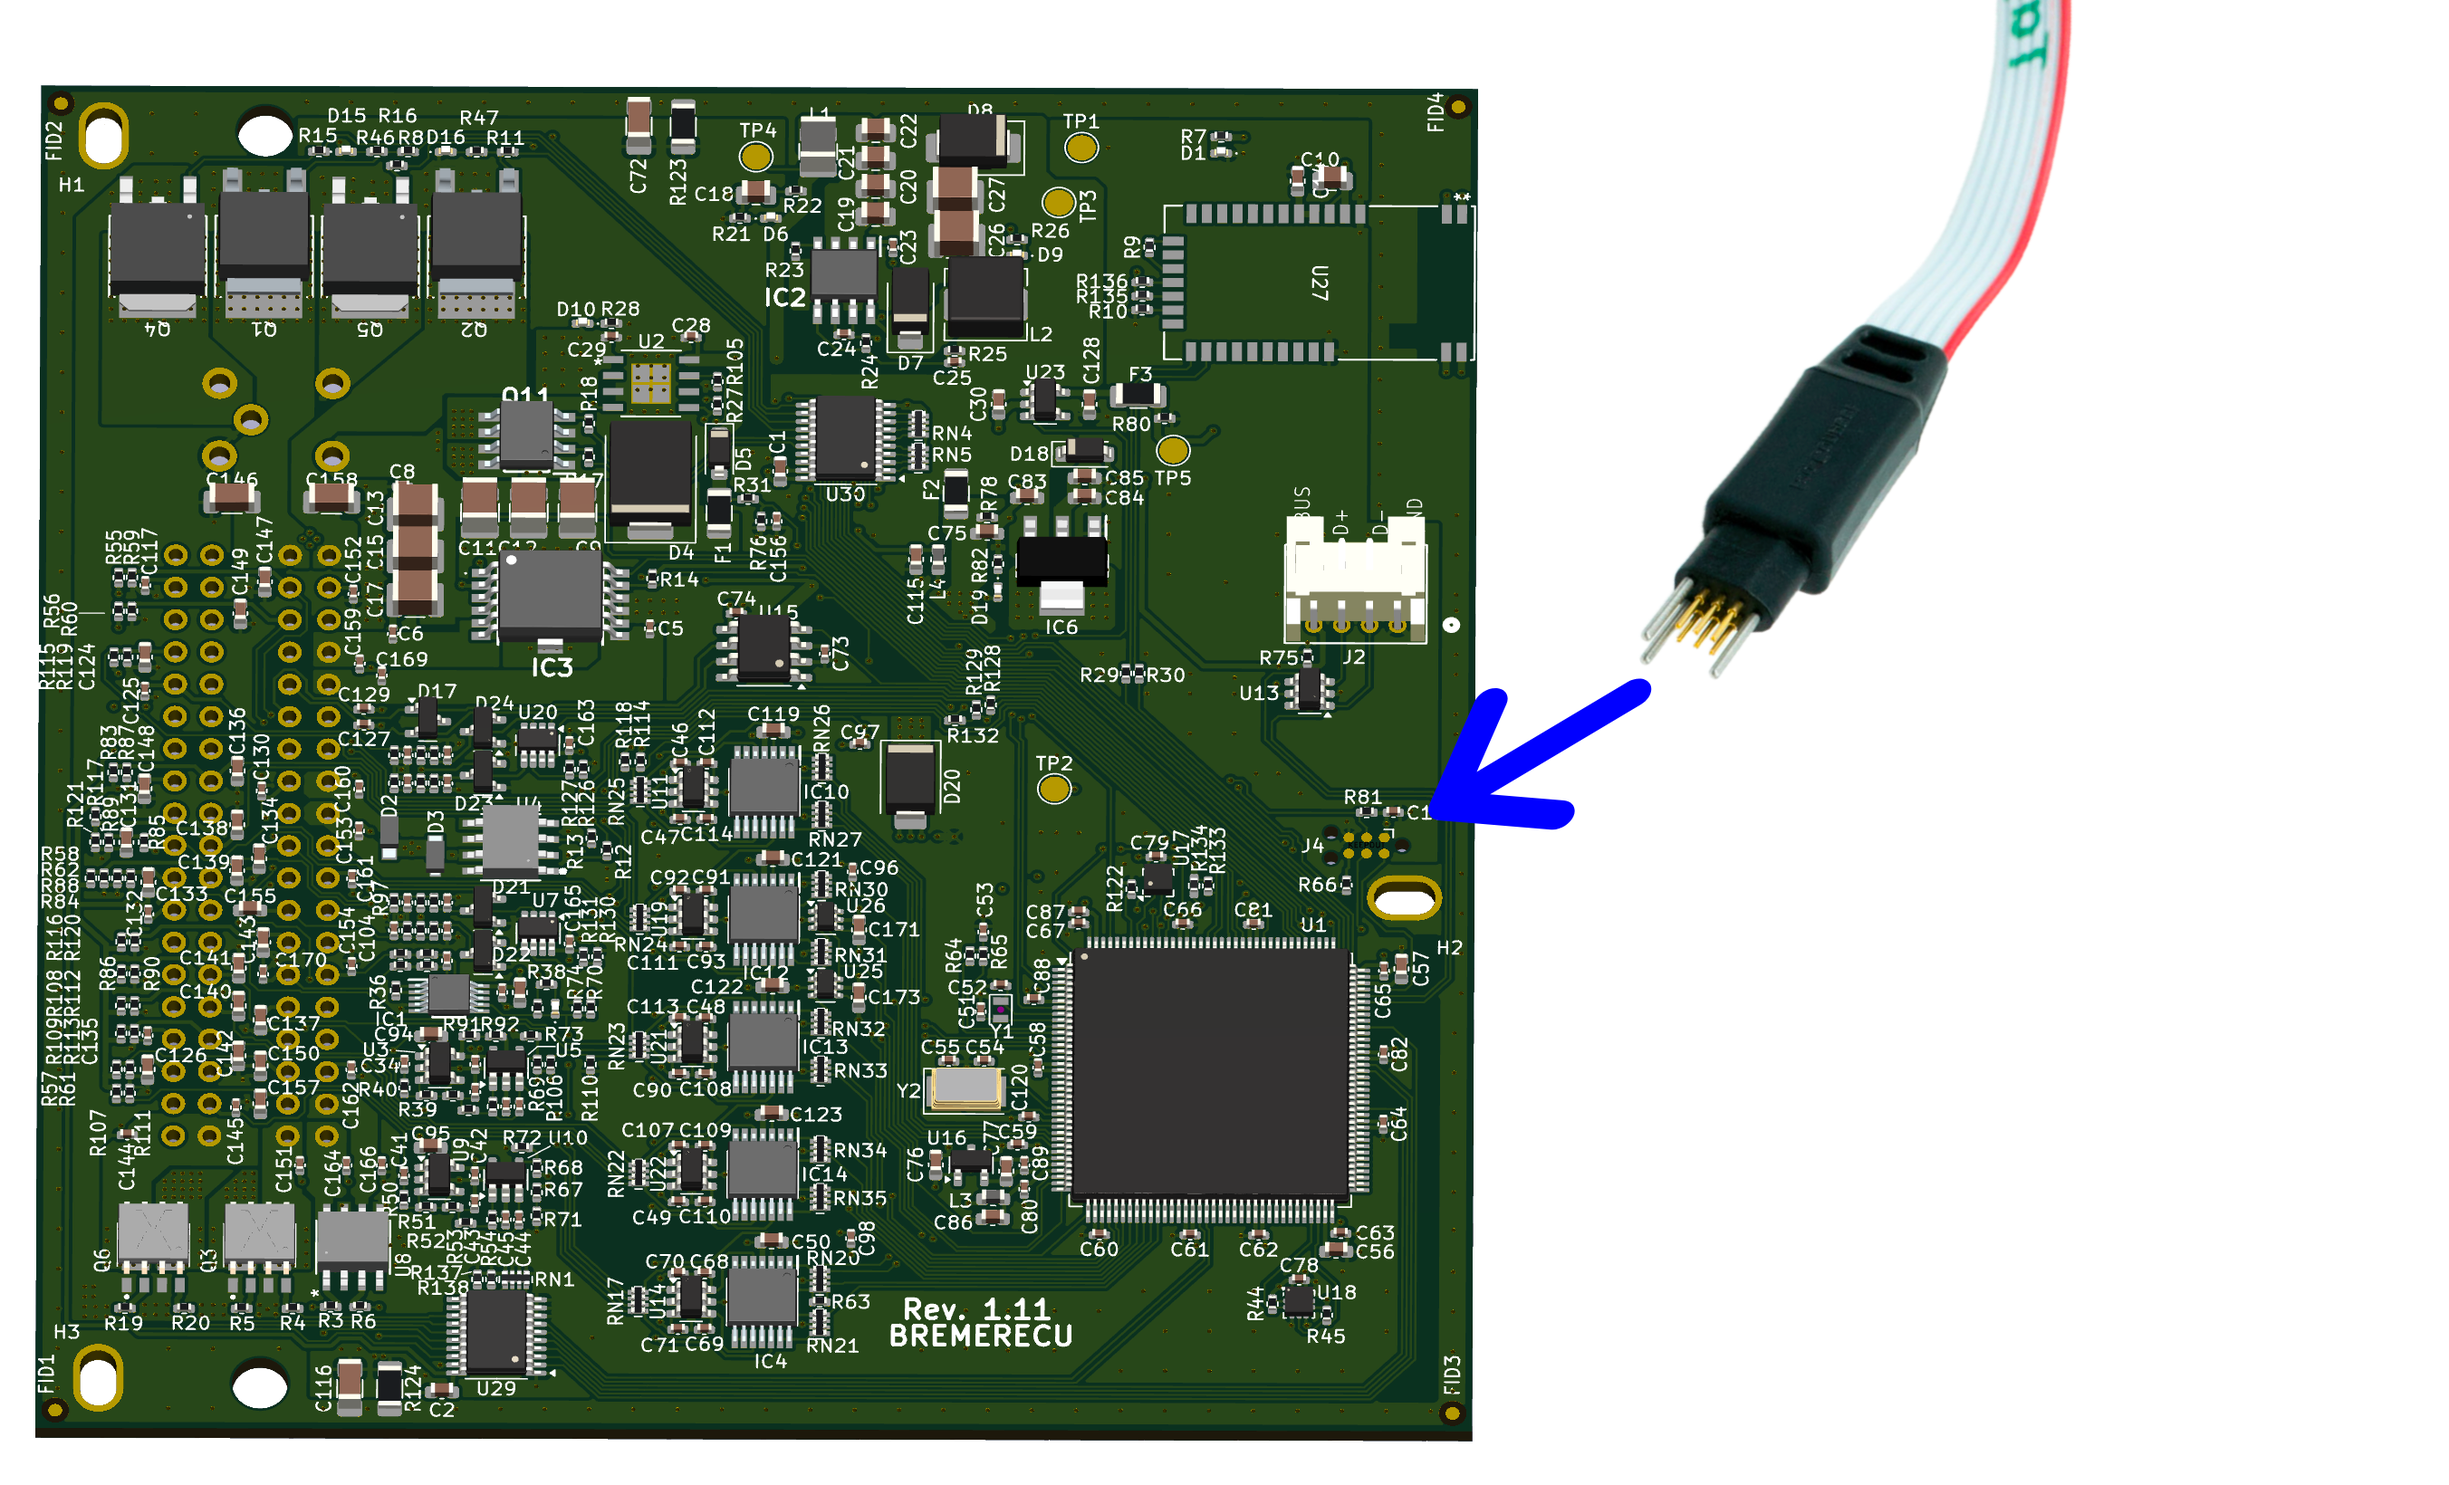
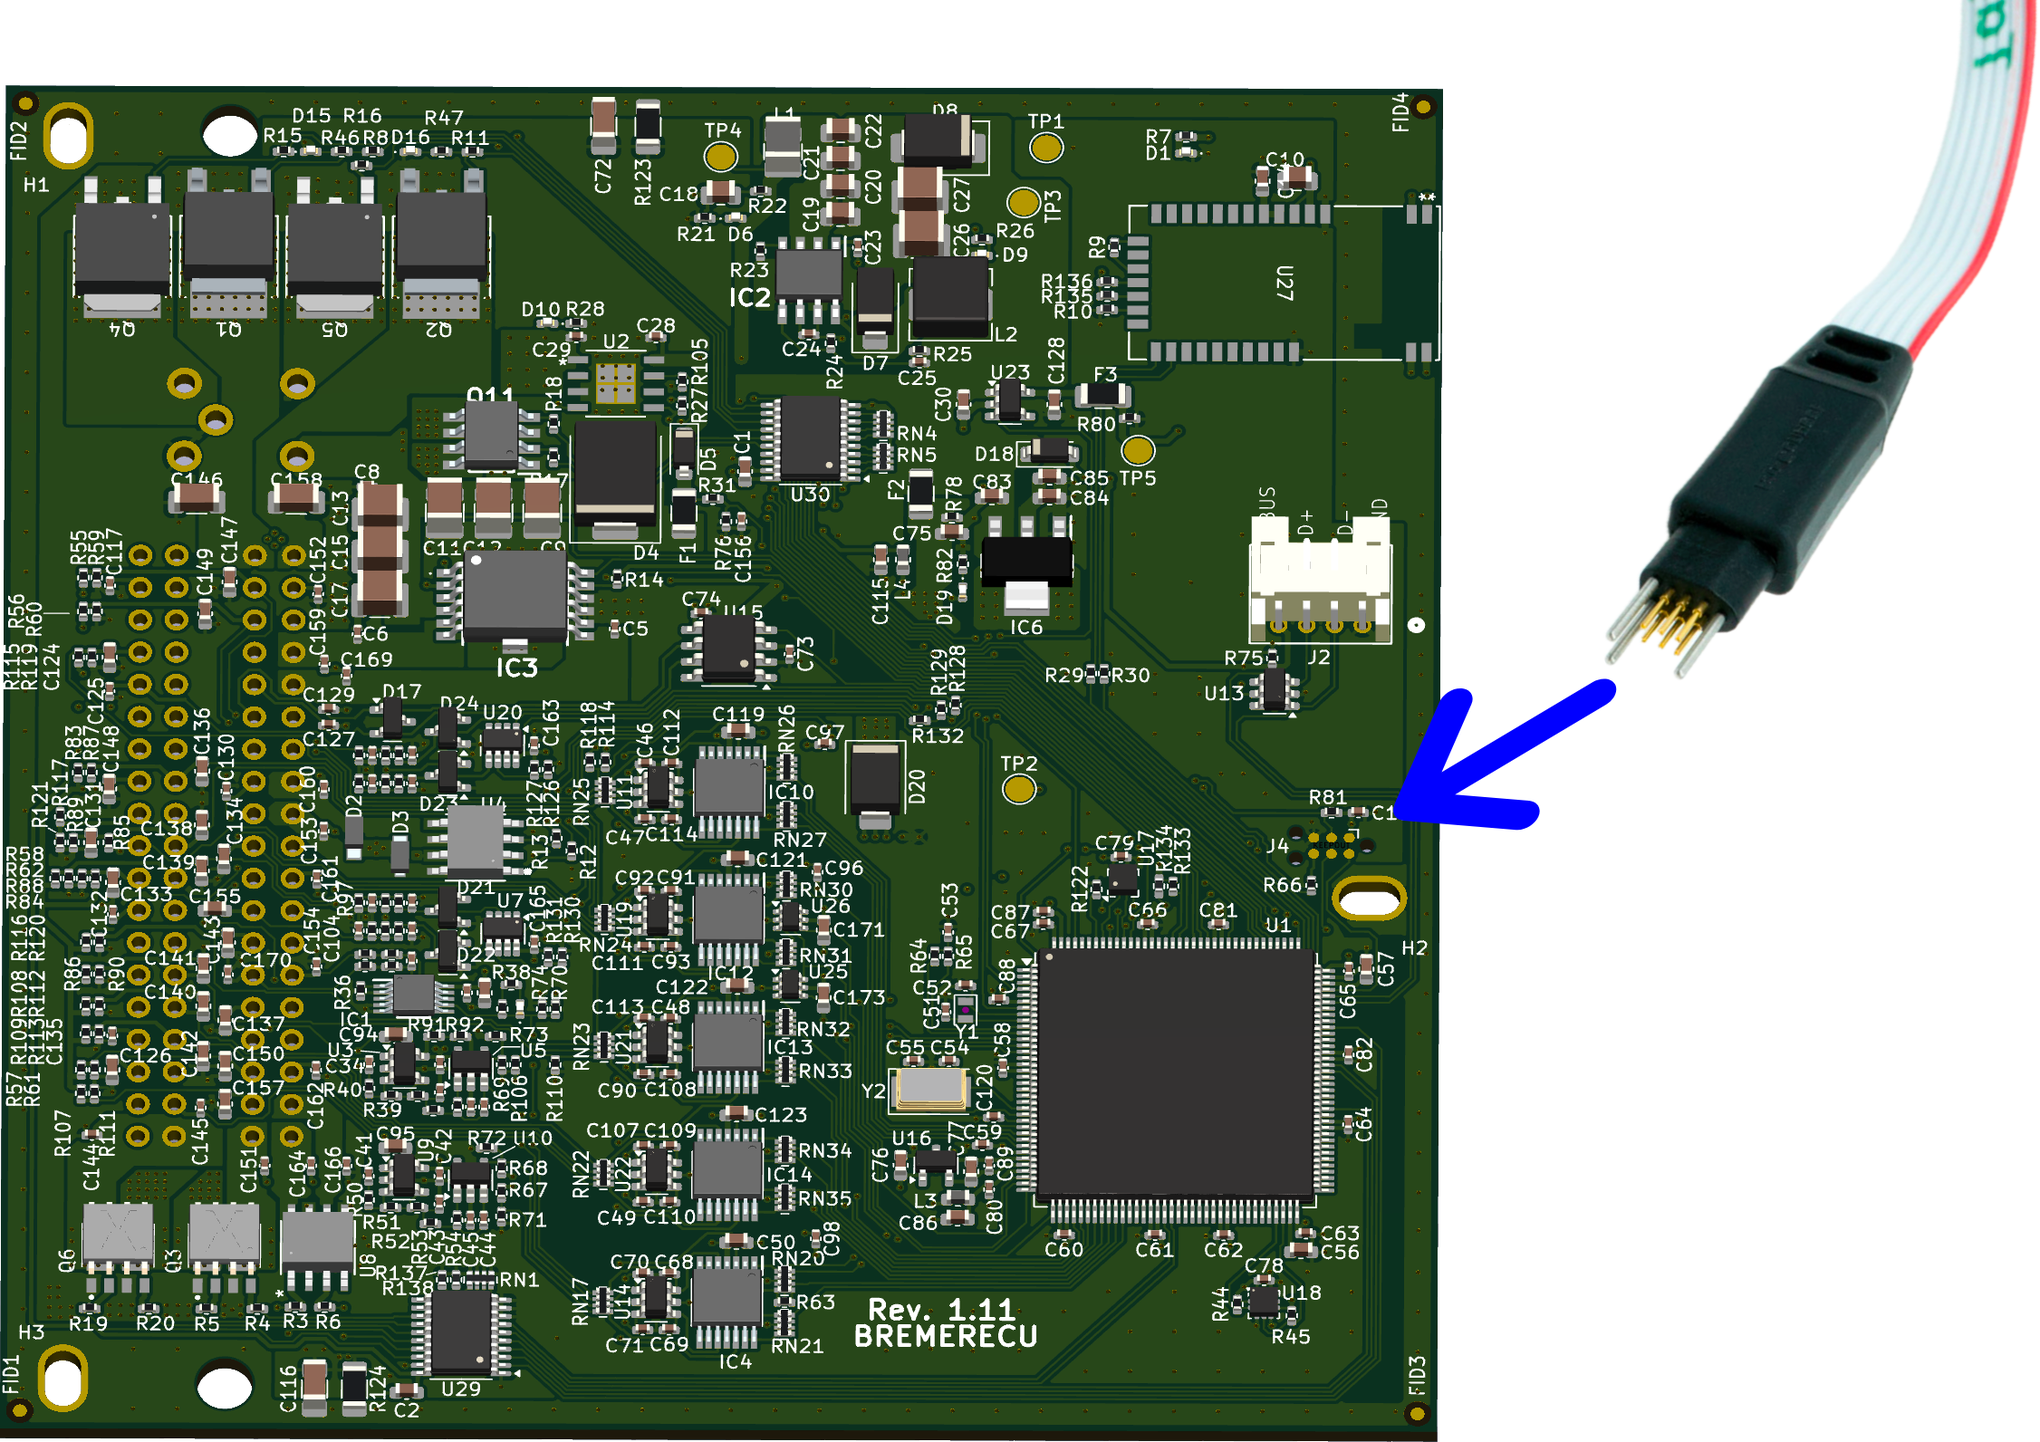
Rework main window structure

diff --git a/lib/src/screens/initial_programming_screen.dart b/lib/src/screens/initial_programming_screen.dart
@@ -206,19 +206,28 @@ class _InitialProgrammingScreenState extends State<InitialProgrammingScreen> {
                     child: LayoutBuilder(
                       builder: (context, constraints) {
                         final wide = constraints.maxWidth >= 920;
-                        final imagePanel = _ConnectionImagePanel(
-                          height: wide ? double.infinity : 300,
-                        );
+                        const imagePanel = _ConnectionImagePanel();
                         final programmingPanel = _buildProgrammingPanel(
                           context,
                           programmed: programmed,
                         );
+                        final output = _ProgramOutput(result: _lastResult);
 
                         if (wide) {
                           return Row(
                             crossAxisAlignment: CrossAxisAlignment.stretch,
                             children: [
-                              Expanded(child: imagePanel),
+                              Expanded(
+                                child: Column(
+                                  crossAxisAlignment:
+                                      CrossAxisAlignment.stretch,
+                                  children: [
+                                    imagePanel,
+                                    const SizedBox(height: 18),
+                                    Expanded(child: output),
+                                  ],
+                                ),
+                              ),
                               const SizedBox(width: 18),
                               Expanded(child: programmingPanel),
                             ],
@@ -229,7 +238,9 @@ class _InitialProgrammingScreenState extends State<InitialProgrammingScreen> {
                           children: [
                             imagePanel,
                             const SizedBox(height: 18),
-                            SizedBox(height: 680, child: programmingPanel),
+                            SizedBox(height: 320, child: output),
+                            const SizedBox(height: 18),
+                            programmingPanel,
                           ],
                         );
                       },
@@ -250,7 +261,9 @@ class _InitialProgrammingScreenState extends State<InitialProgrammingScreen> {
   }) {
     return Card(
       clipBehavior: Clip.hardEdge,
-      child: Padding(
+      // No bottom margin so the card ends level with the command output.
+      margin: const EdgeInsets.fromLTRB(4, 4, 4, 0),
+      child: SingleChildScrollView(
         padding: const EdgeInsets.all(18),
         child: Column(
           crossAxisAlignment: CrossAxisAlignment.stretch,
@@ -423,8 +436,6 @@ class _InitialProgrammingScreenState extends State<InitialProgrammingScreen> {
                 );
               },
             ),
-            const SizedBox(height: 16),
-            Expanded(child: _ProgramOutput(result: _lastResult)),
           ],
         ),
       ),
@@ -433,59 +444,52 @@ class _InitialProgrammingScreenState extends State<InitialProgrammingScreen> {
 }
 
 class _ConnectionImagePanel extends StatelessWidget {
-  const _ConnectionImagePanel({required this.height});
-
-  final double height;
+  const _ConnectionImagePanel();
 
   @override
   Widget build(BuildContext context) {
     return Card(
       clipBehavior: Clip.hardEdge,
-      child: SizedBox(
-        height: height,
-        child: Column(
-          crossAxisAlignment: CrossAxisAlignment.stretch,
-          children: [
-            Padding(
-              padding: const EdgeInsets.all(18),
-              child: Row(
-                children: [
-                  Icon(
-                    Icons.cable,
-                    color: Theme.of(context).colorScheme.primary,
+      child: Column(
+        crossAxisAlignment: CrossAxisAlignment.stretch,
+        children: [
+          Padding(
+            padding: const EdgeInsets.all(18),
+            child: Row(
+              children: [
+                Icon(Icons.cable, color: Theme.of(context).colorScheme.primary),
+                const SizedBox(width: 10),
+                Expanded(
+                  child: Text(
+                    'Connect TC2030 to the bare board',
+                    style: Theme.of(context).textTheme.titleLarge,
                   ),
-                  const SizedBox(width: 10),
-                  Expanded(
-                    child: Text(
-                      'Connect TC2030 to the bare board',
-                      style: Theme.of(context).textTheme.titleLarge,
-                    ),
-                  ),
-                ],
-              ),
+                ),
+              ],
             ),
-            Expanded(
-              child: ColoredBox(
-                color: const Color(0xffeef2ee),
-                child: Padding(
-                  padding: const EdgeInsets.all(12),
+          ),
+          ColoredBox(
+            color: const Color(0xffeef2ee),
+            child: Padding(
+              padding: const EdgeInsets.all(12),
+              child: Center(
+                child: FractionallySizedBox(
+                  widthFactor: 0.8,
                   child: Image.asset(
                     'TCAnschliessen.png',
                     fit: BoxFit.contain,
                     errorBuilder: (context, error, stackTrace) {
-                      return Center(
-                        child: Text(
-                          'TCAnschliessen.png could not be loaded.',
-                          style: Theme.of(context).textTheme.bodyLarge,
-                        ),
+                      return Text(
+                        'TCAnschliessen.png could not be loaded.',
+                        style: Theme.of(context).textTheme.bodyLarge,
                       );
                     },
                   ),
                 ),
               ),
             ),
-          ],
-        ),
+          ),
+        ],
       ),
     );
   }
